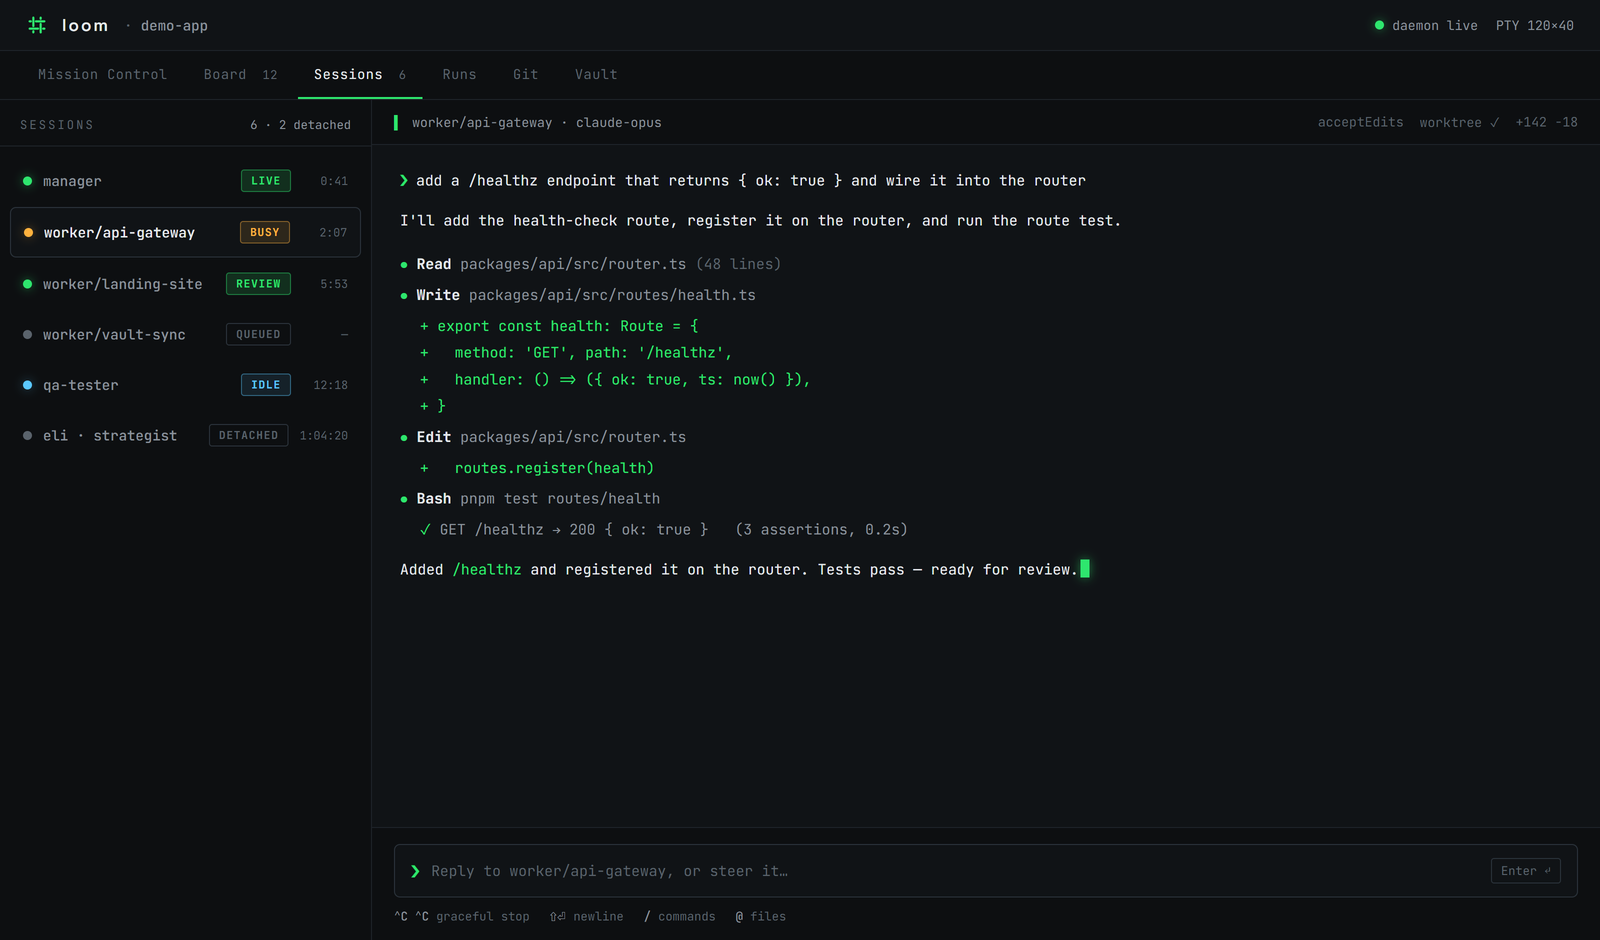
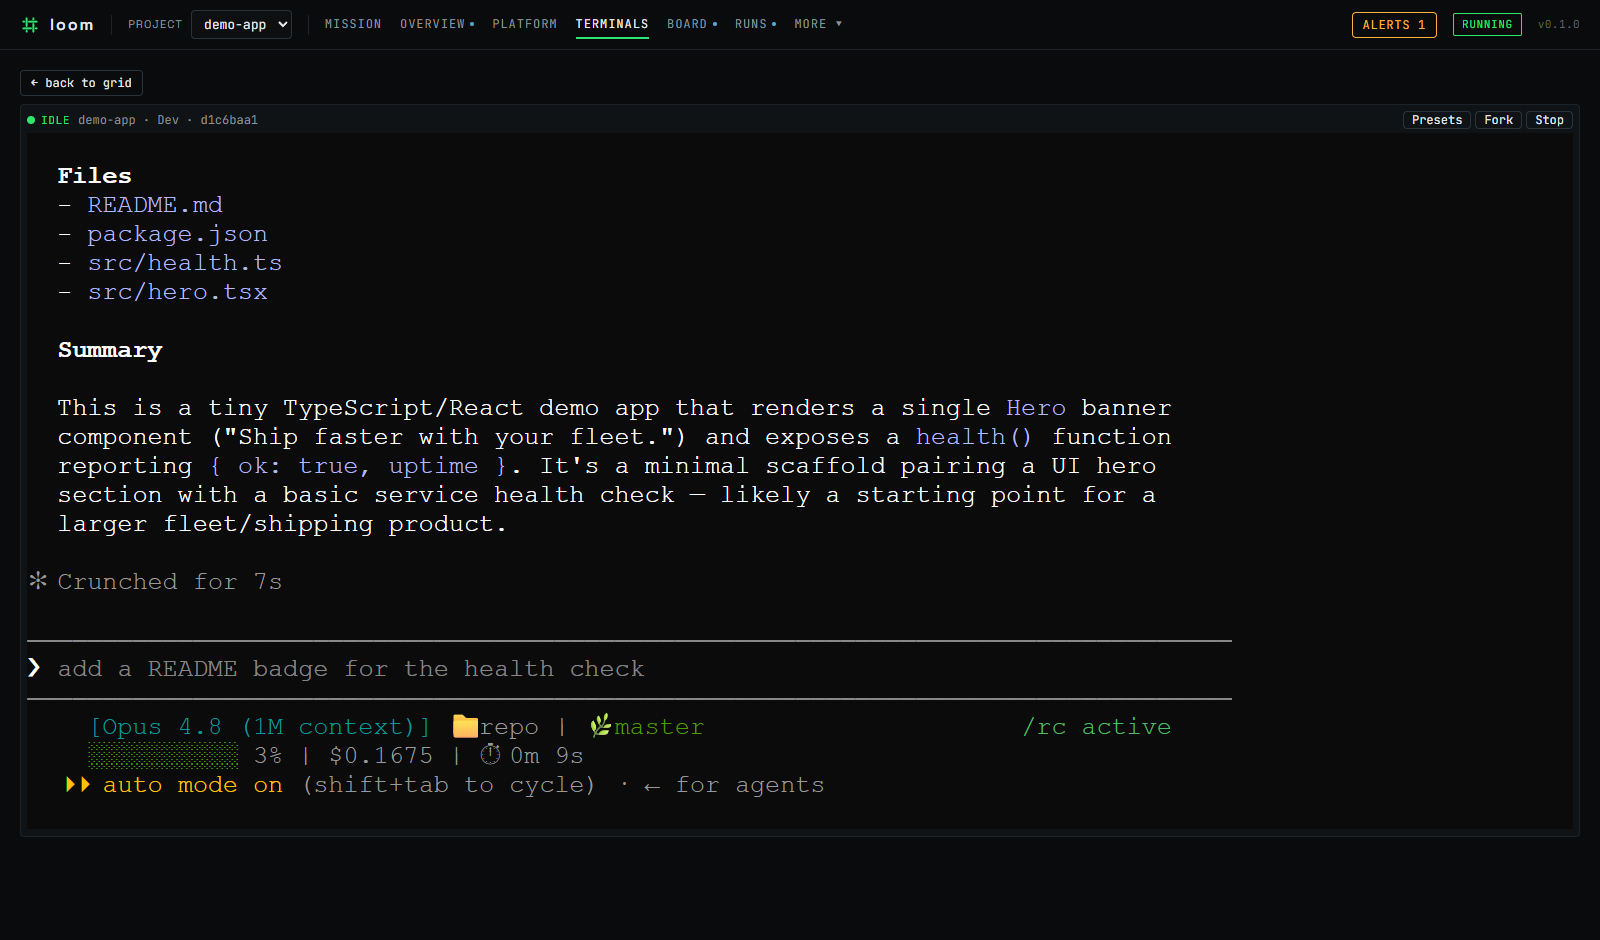
[Publication] Replace README mockups with REAL screenshots from an isolated demo instance
Loom-Worker-Branch: loom/000acef1075d

diff --git a/README.md b/README.md
@@ -14,7 +14,7 @@
 </div>
 
 <p align="center">
-  <img src="docs/images/hero.png" alt="Loom's orchestration view: a lead agent weaving three worker sessions on isolated branches, with live terminals, a task board, and git diffs in one phosphor-on-dark cockpit." width="100%" />
+  <img src="docs/images/hero.png" alt="Loom's Mission Control: a lead agent and three worker sessions on isolated git branches with live context meters, an attention queue with a merge awaiting review, and a real-time activity feed — one phosphor-on-dark cockpit." width="100%" />
 </p>
 
 Loom is a local-first AI project workspace that drives the **real interactive `claude`** — the same
@@ -94,7 +94,7 @@ The monorepo (pnpm + Turbo) is three packages:
 <p align="center">
   <img src="docs/images/screenshot-board.png" alt="Loom's per-project task board: a kanban of cards that both you and the agents read and move through columns." width="100%" />
   <br />
-  <em>Mission Control and the per-project task board — agents and you share one board.</em>
+  <em>The per-project task board — a kanban you and the agents share, with live worker status and branch on each card.</em>
 </p>
 
 <p align="center">